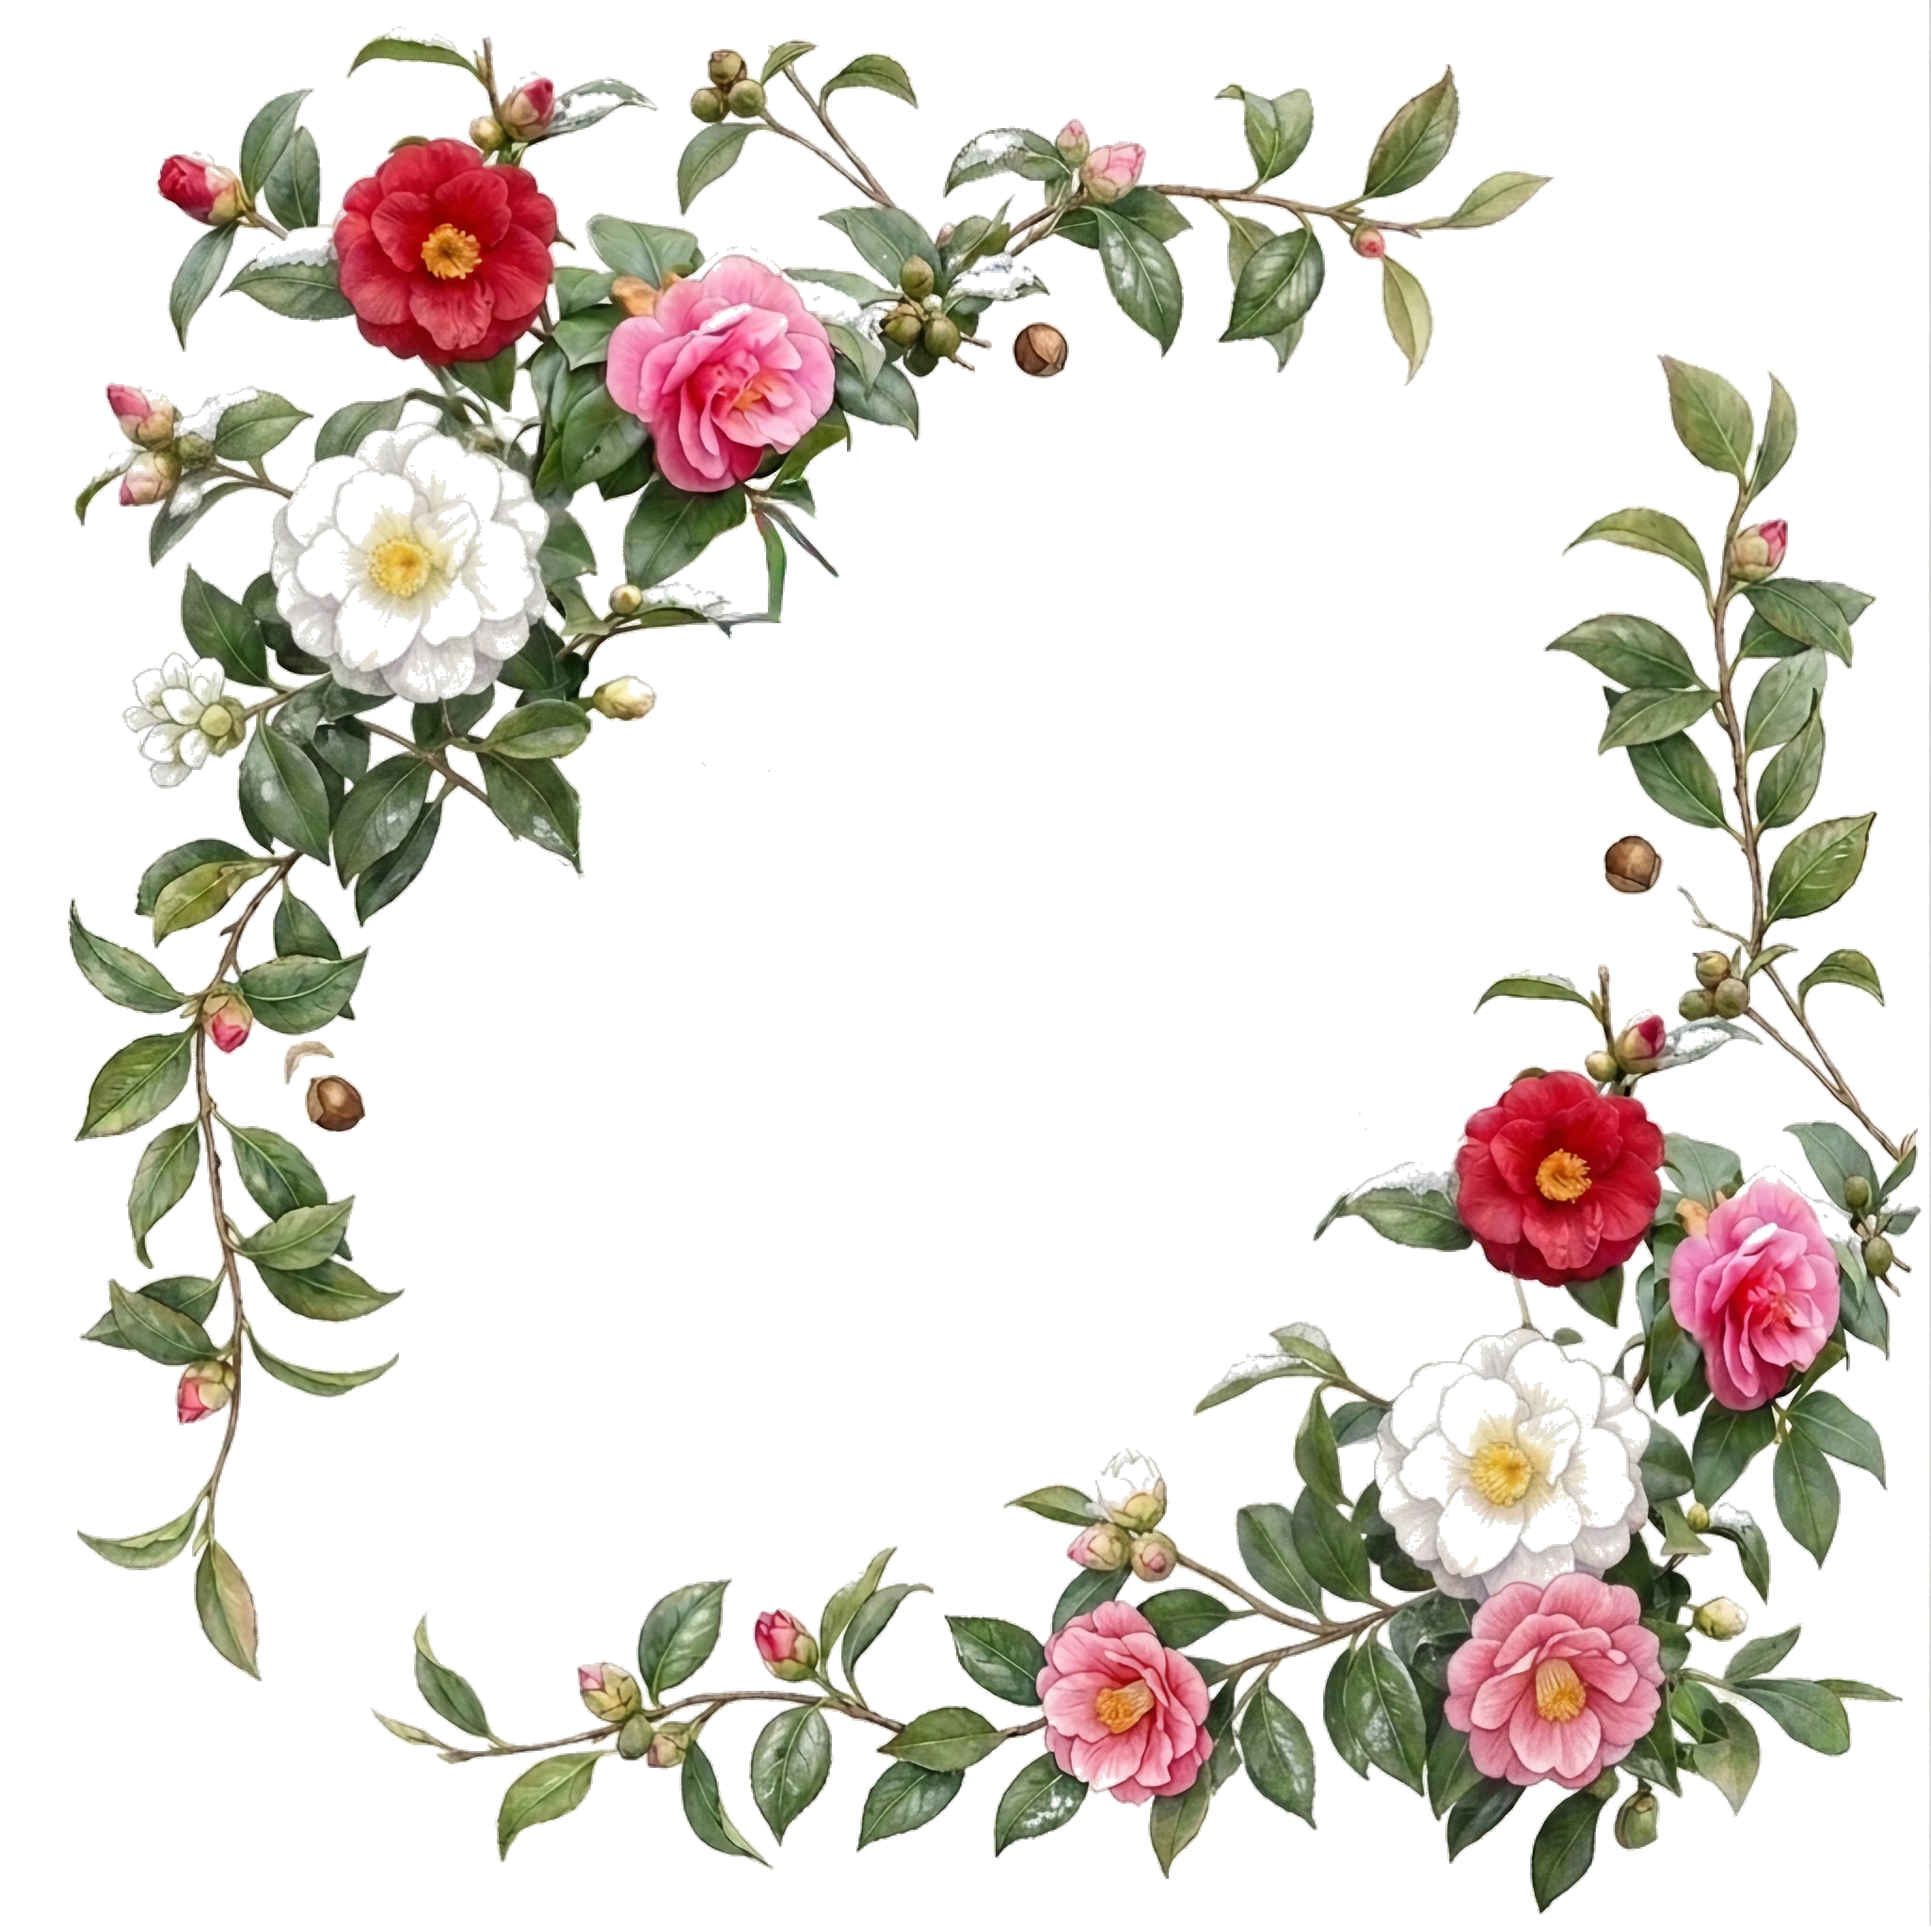
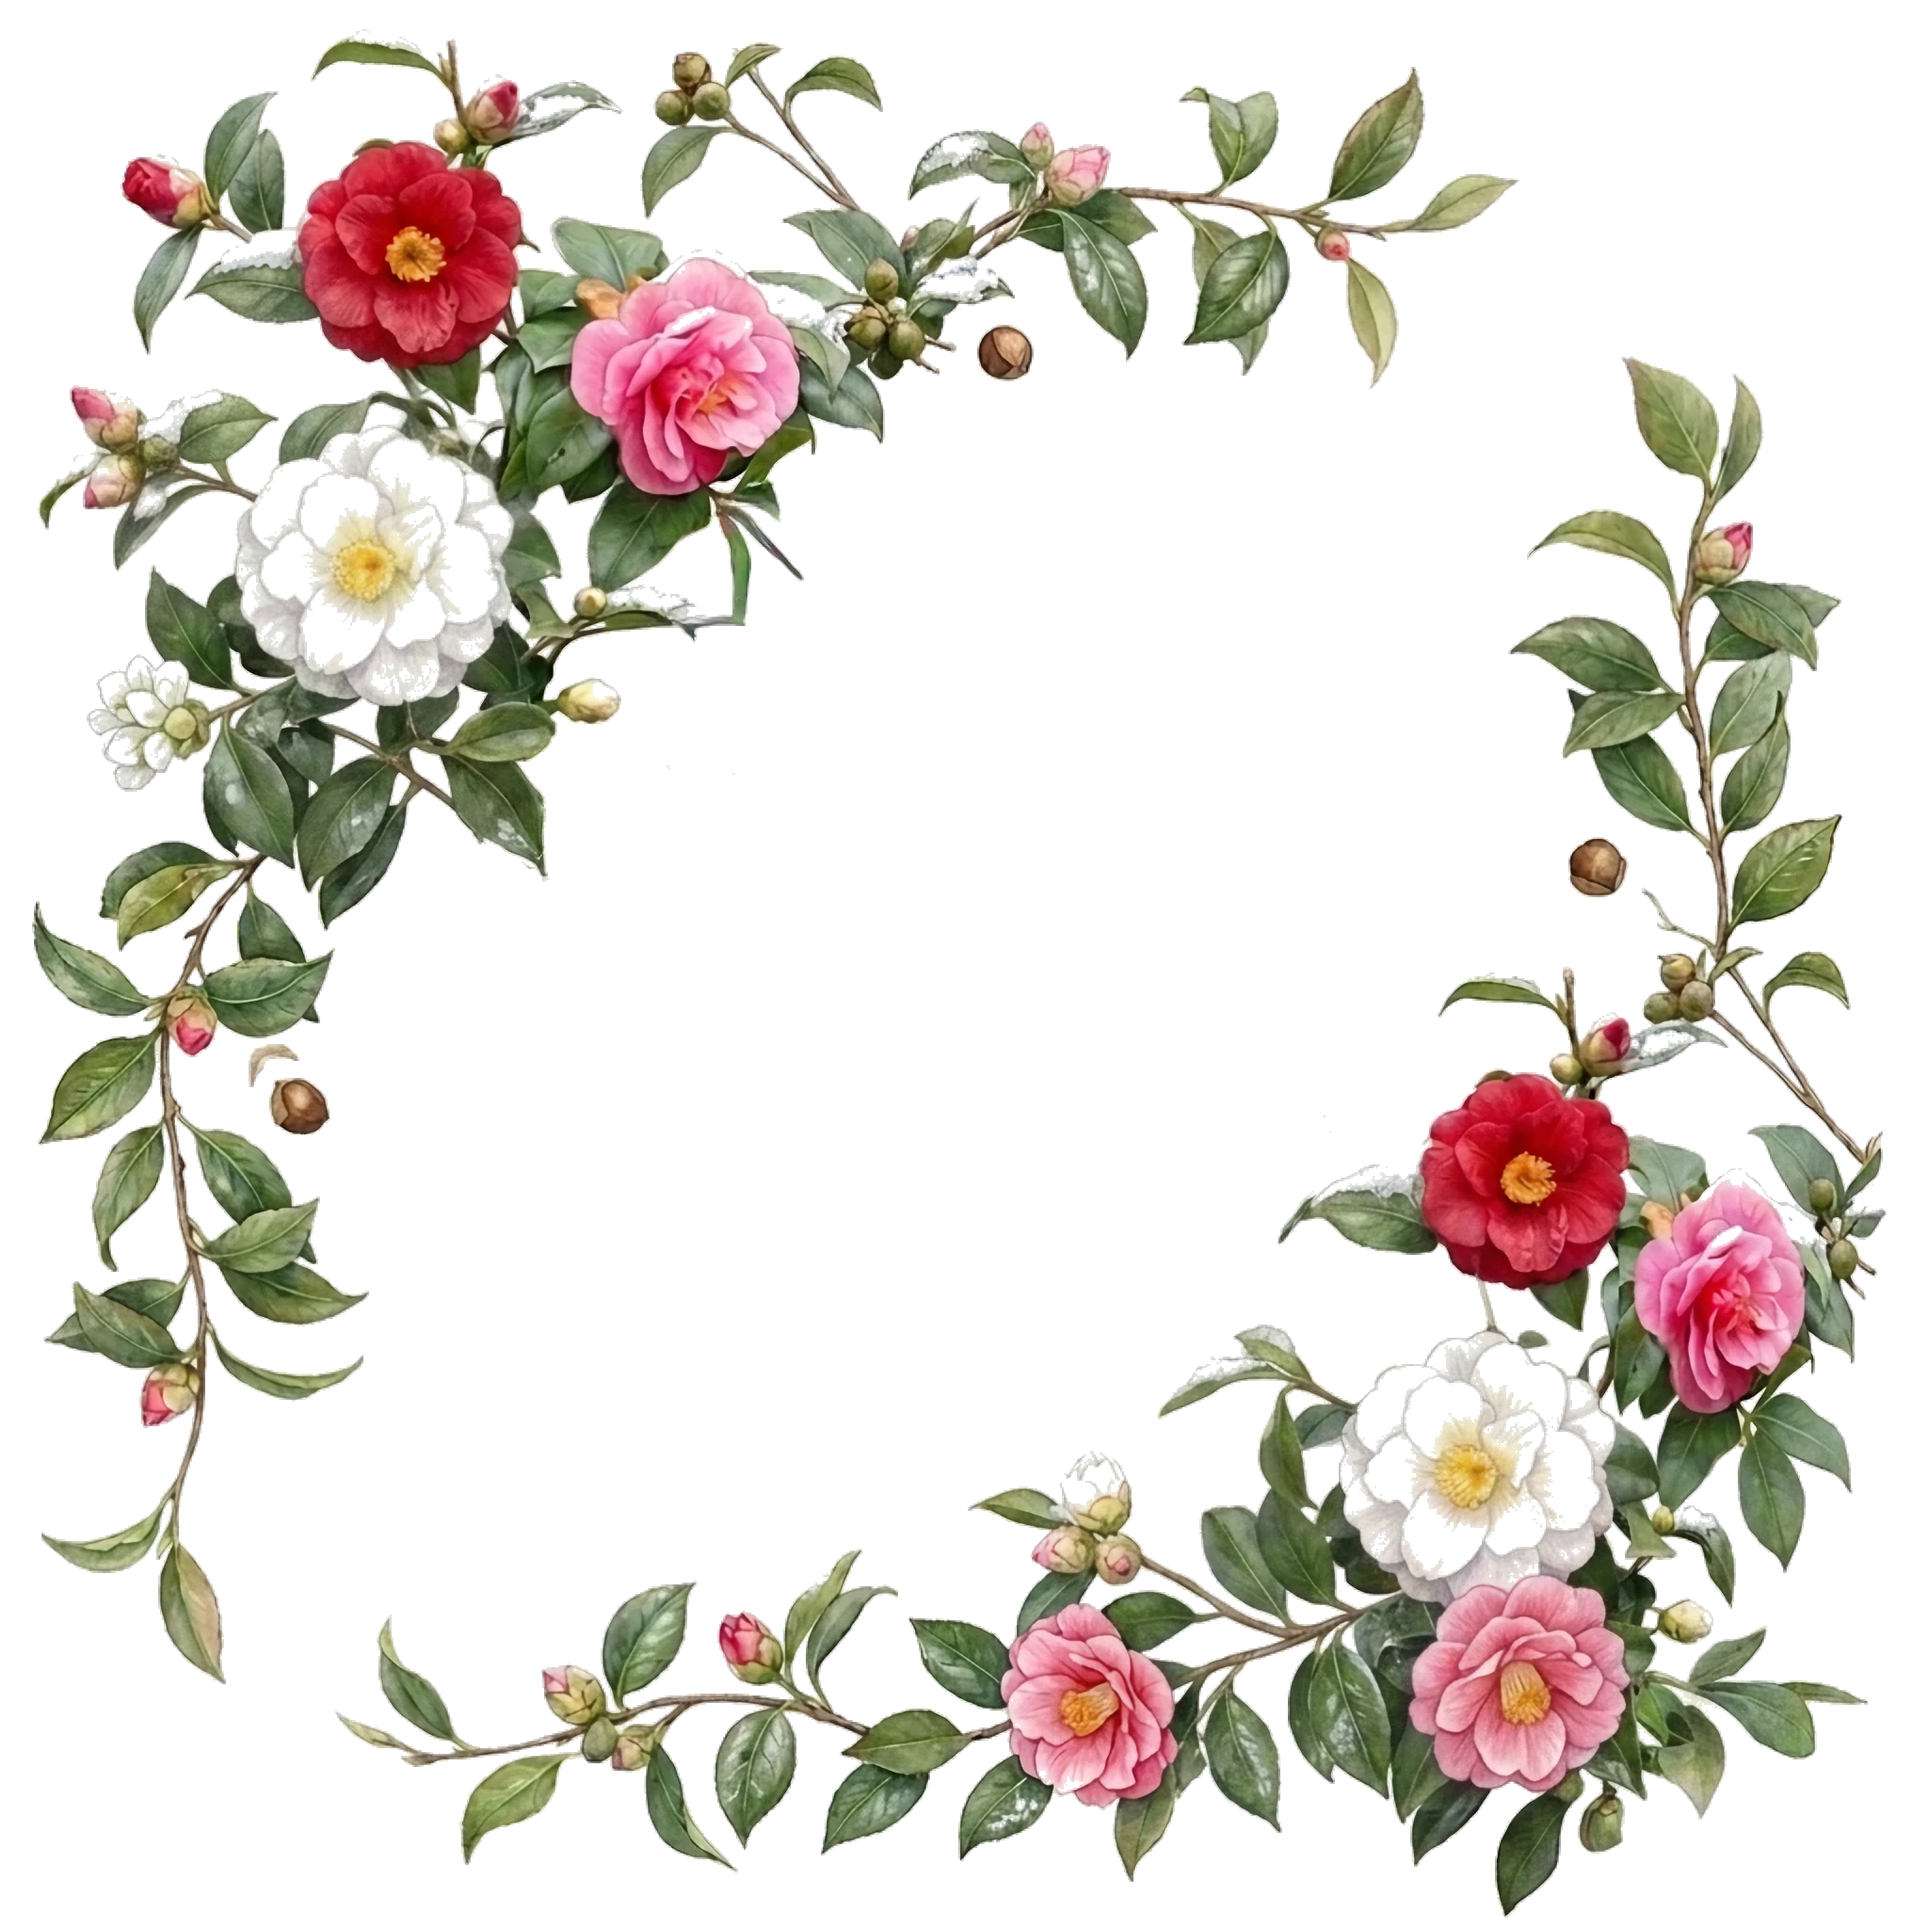
fix(theme): 同梱素材 tsubaki を 2048×2048 に揃える
12 枚のうち tsubaki だけが 2052×2048 で、横に 4px はみ出していた。
テーブルの列幅は列単位に全行共通で決まるため、第 12 章のカタログでは
この 4px が p4〜p7 の全行を 0.38pt ずらし、表示解像度も列で 666/668ppi
と食い違っていた。

差し替え用の 2048×2048 PNG を、他の素材と同じ流儀（ロッシー VP8 ＋
別チャンクのアルファ・quality 90 / method 4・縮小なし）で変換した。
vs resize:high は使えない——高精細プリセットの max_px が 2000 のため
2048px の素材が黙って縮む。

image-format-per-target-spec.md §3.6 の検証中に発見。

diff --git a/CHANGELOG.md b/CHANGELOG.md
@@ -39,6 +39,10 @@
   - `---` は**直前が空行でないと見出しの下線**（setext heading）になり改ページしないため、その形は数えない。コード領域は `Masking` に委ねる。実測: 本書の `---` は全 4 件が記法解説のフェンス内で、正しく 0 件になる（末尾に 1 つ足した複製では 1 件を検出）。
 
 ### Fixed
+- **同梱素材の `tsubaki` だけが 2052×2048 で、他の 11 枚（2048×2048）と揃っていなかった**: 正方形のつもりで作られた素材が横に 4px はみ出しており、著者へ配られる `stylesheets/images/bundled/` の原本からそうなっていた。
+  - **4px が紙面を動かしていた。** 第 12 章は 12 枚を 2 列の表に並べているが、**テーブルの列幅は列単位に全行共通で決まる**ため、右列にある tsubaki 1 枚の不揃いが p4〜p7 の全行を 0.38pt（0.13mm）ずらしていた。表示解像度も列で 666 / 668ppi と食い違っており、正すと 668ppi に揃う。
+  - 差し替え用の 2048×2048 PNG を、他の素材と同じ流儀（ロッシー VP8 ＋別チャンクのアルファ・`quality 90` / `method 4`・**縮小なし**）で WebP へ変換した。旧素材と同じサイズ帯に収まる（657,910 バイト / 旧 655,082 バイト）。**テーマ素材の変換に `vs resize:high` を使ってはならない**——`高精細` プリセットの `max_px` は 2000 なので、2048px の素材が黙って縮む。
+  - `image-format-per-target-spec.md` §3.6 の検証中に発見した。
 - **ビルドの中核である VFM を、誰も導入せず・誰も検査していなかった**: `vfm` は Markdown → HTML 変換そのものを担うのに、`vs doctor` の検査対象 17 種に入っておらず、`vs upgrade` の更新計画にも並ばず、README の導入手順は**別のパッケージ**を指していた。3 つとも独立に抜けていたため、揃っていない環境では「`vs doctor` がすべて OK と言うのにビルドが白紙になる」状態が成立する（2026-08-16 の点検で発覚。`release-1.0-considerations.md` A-2）。
   - **README が指していたのは無関係なパッケージだった。** `npm install --save-dev @vivliostyle/cli vfm` と書いていたが、npm の `vfm` は "Form Validation for Vue3"（実測: 本開発機にこの `vfm@1.5.0` が実際に入っていた＝この手順を踏んだ痕跡）。VFM は `@vivliostyle/vfm` である。加えて `--save-dev` はローカル導入で `vfm` コマンドが PATH に現れず、実装は**グローバル前提**で `system("vfm …")` と呼ぶ。**どちらの誤りも単独でビルドを壊す。**
   - **壊れ方が静かなのが問題の本体。** 変換はシェルのリダイレクト（`vfm foo.md > foo.html`）なので、コマンドが無くても **0 バイトの .html が残る**。さらに VFM は入力を読めなくても **exit 0 を返し、Node のスタックトレースを標準出力へ吐く**——それがそのまま章の HTML として保存される（実測）。旧実装は `system` の戻り値しか見ていないため後者は成功扱いになり、いずれも「中身のある章」として後続を素通りして、本文が白紙やエラーダンプのまま本が組み上がっていた。
